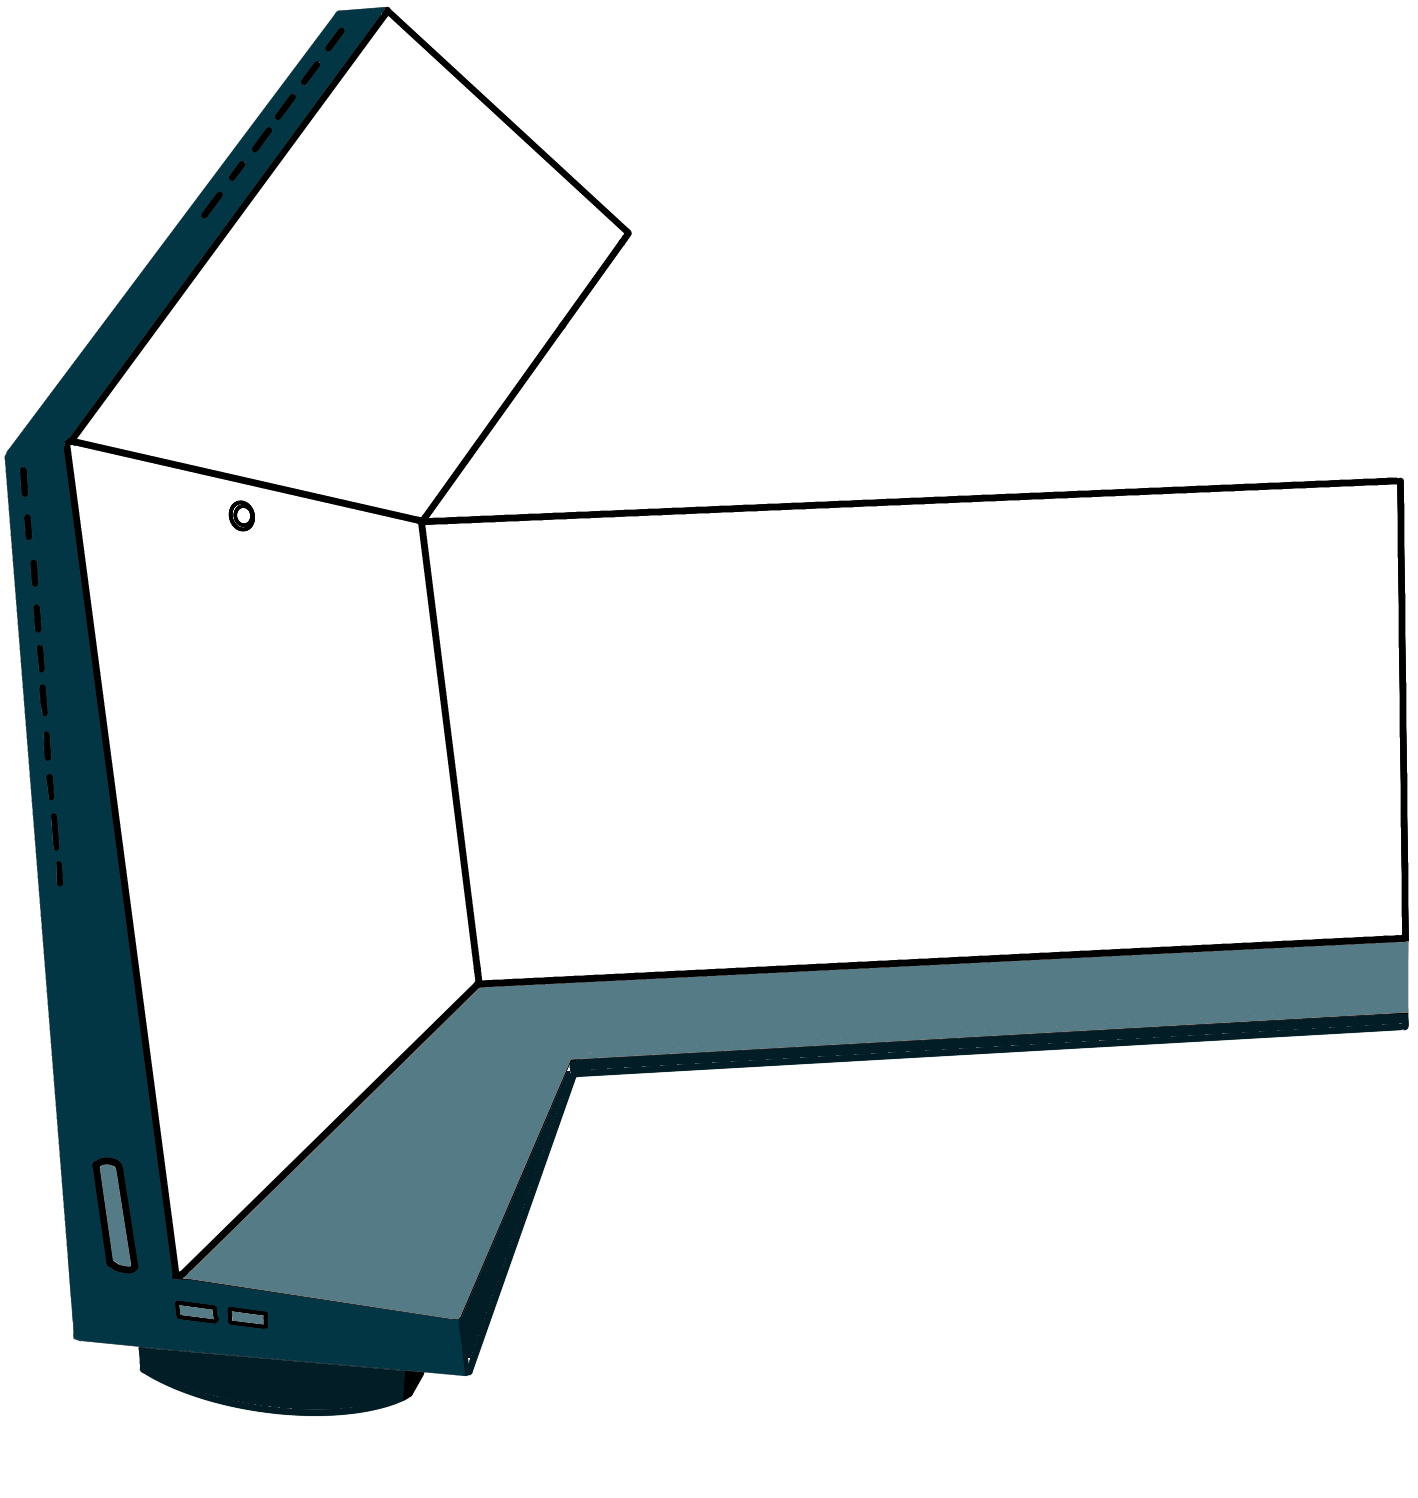
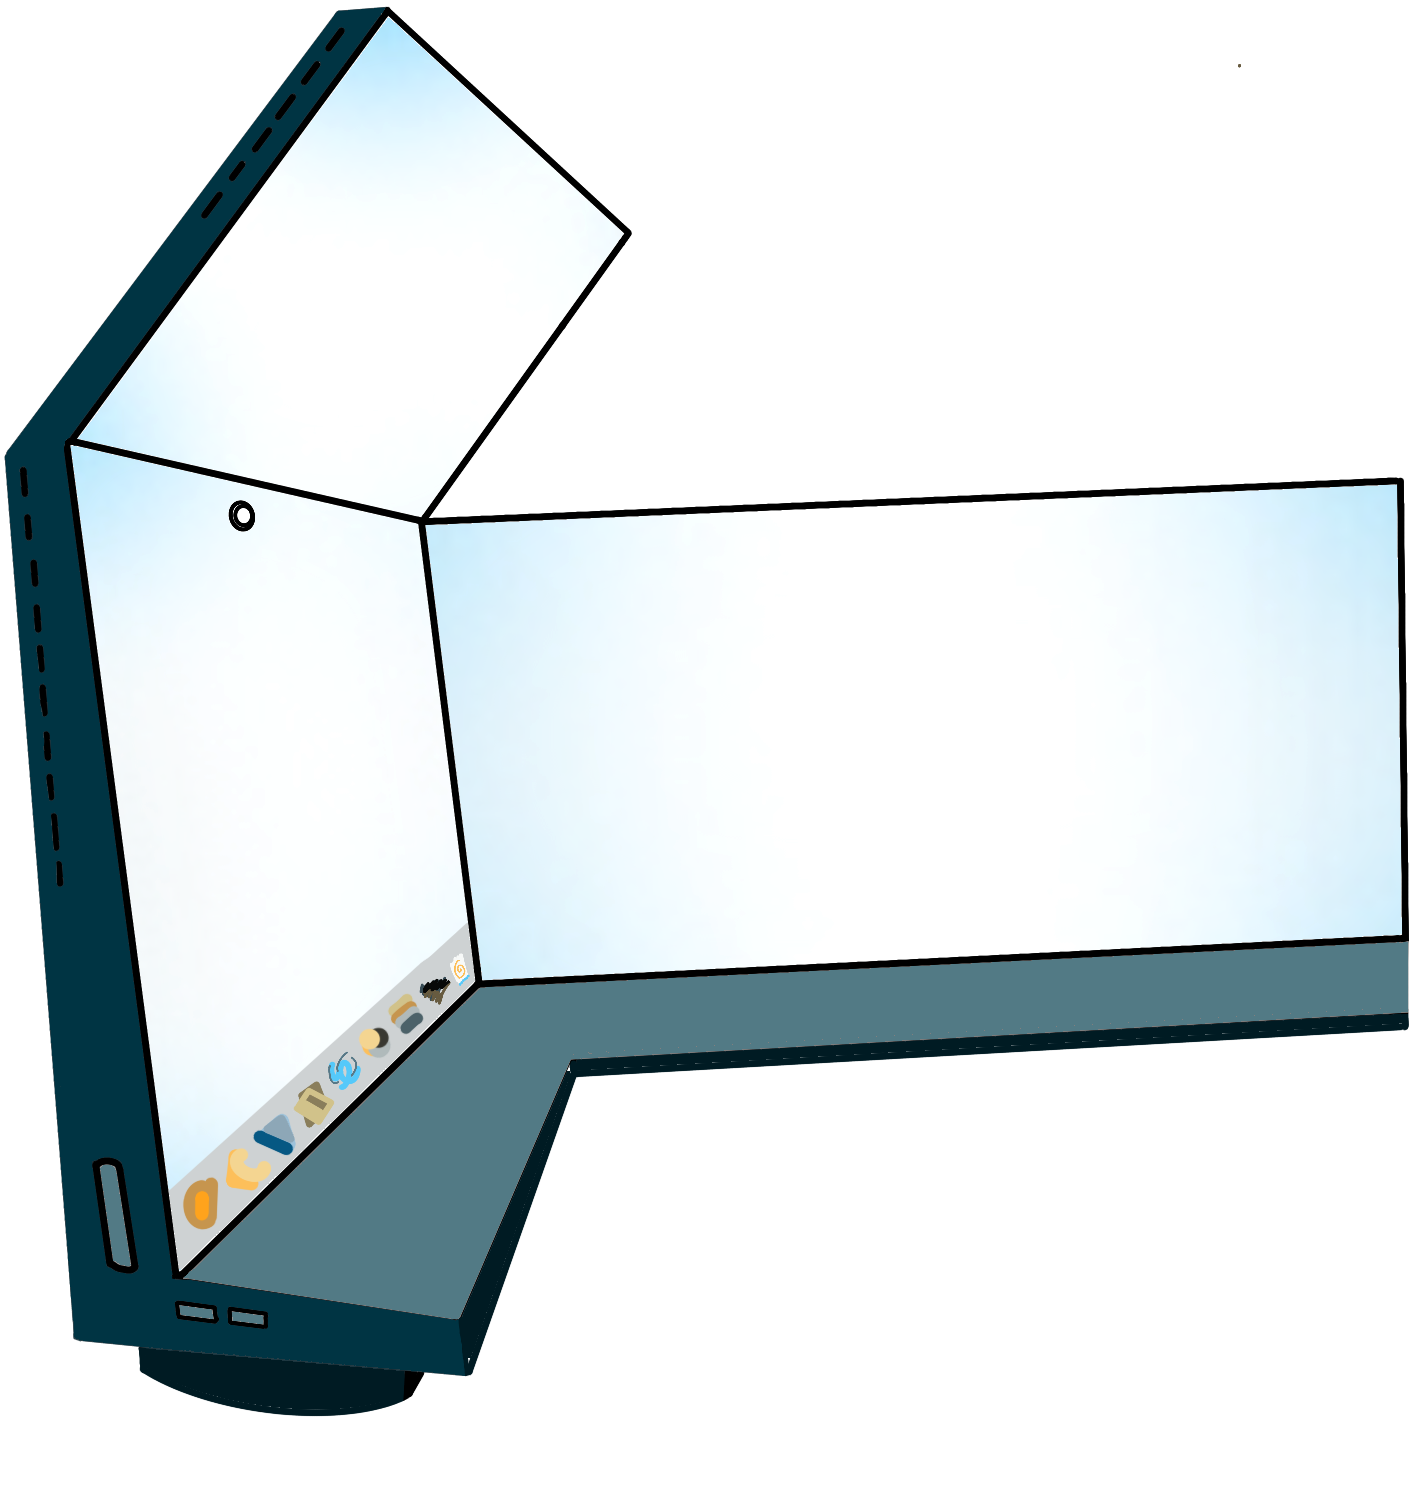
imported desk img files

diff --git a/src/components/Hero.js b/src/components/Hero.js
@@ -1,6 +1,12 @@
 import React from "react"
 import dev from "../images/dev.png"
 import desk from "../images/desk.png"
+import screenTopTan from "../images/screen_top_tan.png"
+import screenTopBlack from "../images/screen_top_black.png"
+import screenRightTan from "../images/screen_right_tan.png"
+import screenRightDarkGray from "../images/screen_right_darkgray.png"
+import screenRightLightGray from "../images/screen_right_lightgray.png"
+import screenLeftBottom from "../images/screen_left_bottom.png"
 import {Link} from "react-scroll"
 
 export default function Hero() {
@@ -17,7 +23,13 @@ export default function Hero() {
             </div>
             <div className="images-container">
                 <img className="desk" src={desk} alt="desk"></img>
-                <img className="dev" src={dev} alt="dev"></img>
+                <img className="screenTopTan" src={screenTopTan} alt="screenTopTan"></img>
+                <img className="screenTopBlack" src={screenTopBlack} alt="screenTopBlack"></img>
+                <img className="screenRightTan" src={screenRightTan} alt="screenRightTan"></img>
+                <img className="screenRightDarkGray" src={screenRightDarkGray} alt="screenRightDarkGray"></img>
+                <img className="screenRightLightGray" src={screenRightLightGray} alt="screenRightLightGray"></img>
+                <img className="screenLeftBottom" src={screenLeftBottom} alt="screenLeftBottom"></img>
+                <img className="dev" src={dev} alt="a dev"></img>
             </div>
             <div className="section-links">
                 <Link className="section-link" to="about-container" smooth={true} duration={1000}>About</Link>

diff --git a/src/index.css b/src/index.css
@@ -127,24 +127,30 @@ body {
 
 .hero-container .images-container {
     margin-top: 3rem;
-    display: flex;
     align-self: center;
     position: relative;
+    display: inline-block;
     width: 40vh;
+    height: 40vh;
 }
 
 .hero-container img {
     width: 100%;
-    height: 100%;
+    position: absolute;
 }
 
-.desk {
+.desk,
+.screenTopTan,
+.screenTopBlack,
+.screenRightTan,
+.screenRightDarkGray,
+.screenRightLightGray,
+.screenLeftBottom {
     animation: hoverDesk 3s ease-in-out 0s infinite alternate;
 }
 
 .dev {
     animation: hoverChair 2.5s ease-in-out 0s infinite alternate;
-    position: absolute;
 }
 
 .section-links {
@@ -191,6 +197,7 @@ body {
 @media (min-width: 768px) {
 
     .hero-container .images-container {
+        height: 35vw;
         width: 35%;
         position: absolute;
         transform: translate(-1%, -10%);
